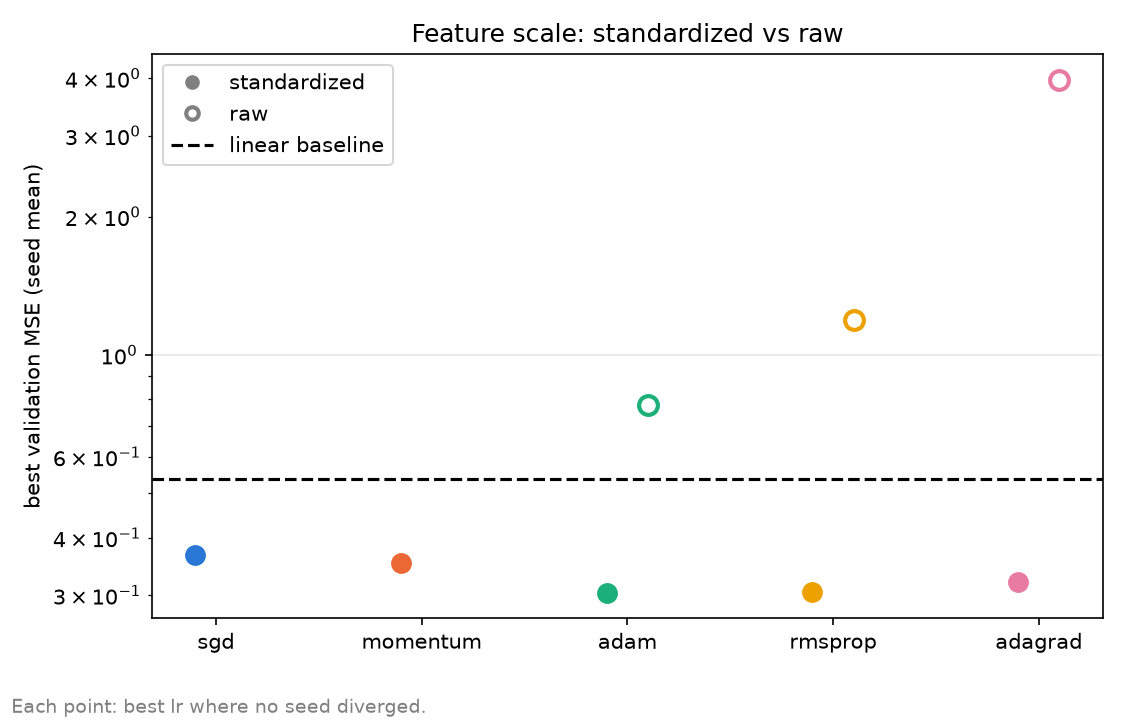
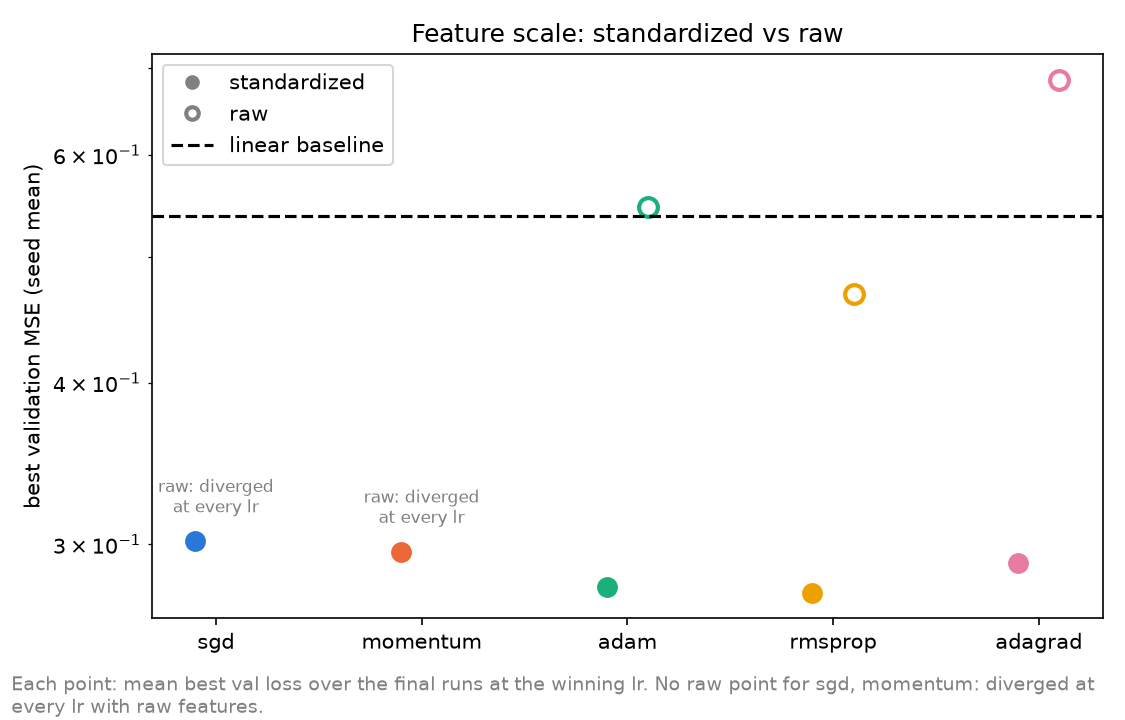
fixed results.py; explicitly explain the 'pilot phase' in README.md; graph redrawn

diff --git a/README.md b/README.md
@@ -17,15 +17,25 @@ Optional checks: `pytest` runs the gradient, optimizer, metric and PyTorch-parit
 
 Run everything from the repo root, in this order. `lr_sweep.py` and `analyze.py` are configured by the constants at the top of each file.
 
-### 1. Learning-rate sweep
+Every training run uses the same network and batch size (48); the phases differ only in optimizers, learning rates, seeds and epochs:
 
-In `lr_sweep.py` set `PHASE = "sweep"`, `FINAL_LRS = None`, all five optimizers in `OPTIMIZER_NAMES`, then run it once with `STANDARDIZED = True` and once with `False`:
+| Phase | `lr_sweep.py` settings | Runs | Output |
+|---|---|---|---|
+| 0. Pilot | `PHASE = "pilot"`, SGD and AdaGrad, all 9 lrs, `SEEDS = [0]`, `N_EPOCHS = 200`, standardized | 18 | `logs/pilot_std/` |
+| 1. Sweep | `PHASE = "sweep"`, all five optimizers, all 9 lrs, `SEEDS = [0, 1, 2, 3, 4]`, `N_EPOCHS = 260`, `FINAL_LRS = None`; once standardized, once raw | 225 + 225 | `logs/sweep_std/`, `logs/sweep_raw/` |
+| 3. Final | `PHASE = "final"`, each optimizer at its winning lr only, `SEEDS = [5, 6, 7, 8, 9]`, `N_EPOCHS = 260`; once standardized, once raw | 25 + 15 | `logs/final_std/`, `logs/final_raw/` |
+
+### 0. Pilot: choose the epoch budget
+
+Run `python lr_sweep.py` with the pilot settings above, then `python analyze.py` with `MODE = "pilot"` and `STANDARDIZED = True`. For each optimizer's best lr it finds the epoch where the val loss first gets within 1% of its lowest, and prints the budget as twice the slowest of those. Our pilot: SGD stops improving at epoch 130 and AdaGrad at 98, so the budget is 2 × 130 = **260 epochs**, used by the sweep and the final runs.
+
+### 1. Learning-rate sweep
 
 ```bash
 python lr_sweep.py
 ```
 
-Each optimizer is trained at every learning rate in `LRS` (1e-4 … 1.0) for every seed in `SEEDS`. Large learning rates are expected to diverge; those runs are recorded, not errors. It prints mean ± std val MSE per optimizer and lr, how many seeds diverged or never beat a constant prediction, and marks the best lr. Results go to `logs/sweep_std/` or `logs/sweep_raw/`:
+Each optimizer is trained at every learning rate in `LRS` (1e-4 … 1.0) for every seed in `SEEDS`. Large learning rates are expected to diverge; those runs are recorded, not errors. It prints mean ± std val MSE per optimizer and lr, how many seeds diverged or never beat a constant prediction, and marks the best lr. Run it with `STANDARDIZED = True` and again with `False`. Each run folder holds:
 
 | File | Contents |
 |---|---|
@@ -37,19 +47,23 @@ Each optimizer is trained at every learning rate in `LRS` (1e-4 … 1.0) for eve
 
 With raw features SGD and Momentum diverge at every lr, so they have no best lr there.
 
-### 2. Working learning-rate range
+### 2. Winners and working learning-rate range
 
-In `analyze.py` set `MODE = "sweep"` and `STANDARDIZED = True`, then:
-
-```bash
-python analyze.py
-```
-
-Writes `logs/sweep_std/winners.csv`: each optimizer's best lr, the epoch where it stops improving, and its working range (lrs whose mean val loss is within 10% of the best) as `working_ratio` = largest / smallest working lr.
+Run `python analyze.py` with `MODE = "sweep"`, once with `STANDARDIZED = True` and once with `False`. It writes `winners.csv` into `logs/sweep_std/` and `logs/sweep_raw/`: each optimizer's best lr, the epoch where it stops improving, and its working range (lrs whose mean val loss is within 10% of the best) as `working_ratio` = largest / smallest working lr.
 
 ### 3. Final runs
 
-In `lr_sweep.py` set `PHASE = "final"` and `FINAL_LRS` to each optimizer's winning lr, then run it with `STANDARDIZED = True` and again with `False` (only the optimizers that have a raw winner). Each optimizer is trained at that one lr with fresh seeds (`SEEDS = [5, 6, 7, 8, 9]`) for `N_EPOCHS`. Results go to `logs/final_std/` and `logs/final_raw/`, in the same format as step 1.
+Set `FINAL_LRS` to the `lr` column of the matching `winners.csv` and run `python lr_sweep.py` with the final settings above, once per feature scale. Fresh seeds (5–9) keep the final numbers independent of the seeds used to pick the lr. The learning rates we used:
+
+| Optimizer | standardized (`logs/final_std/`) | raw (`logs/final_raw/`) |
+|---|---|---|
+| SGD | 0.01 | none: diverged at every lr |
+| Momentum | 0.001 | none: diverged at every lr |
+| Adam | 0.003 | 0.01 |
+| RMSProp | 0.003 | 0.003 |
+| AdaGrad | 0.3 | 0.03 |
+
+Each run takes a few seconds (about 4 s for SGD and 8 s for Adam at 260 epochs), so a full final phase takes a few minutes.
 
 ### 4. Metrics
 
@@ -94,7 +108,8 @@ Where each figure's data comes from:
 | Path | What it is | Made by |
 |---|---|---|
 | `data/cal_housing_py3.pkz` | the raw California housing dataset (20,640 houses, 8 features, target = median house value in $100k), cached by sklearn | first call to `data.prepare_data` |
-| `logs/sweep_std/`, `logs/sweep_raw/` | learning-rate sweep logs (files listed in step 1); `sweep_std/` also holds `winners.csv` | `lr_sweep.py` with `PHASE = "sweep"`, `analyze.py` |
+| `logs/pilot_std/` | pilot runs used to pick the 260-epoch budget | `lr_sweep.py` with `PHASE = "pilot"` |
+| `logs/sweep_std/`, `logs/sweep_raw/` | learning-rate sweep logs (files listed in step 1), each with its `winners.csv` | `lr_sweep.py` with `PHASE = "sweep"`, `analyze.py` |
 | `logs/final_std/`, `logs/final_raw/` | final runs at each optimizer's winning lr | `lr_sweep.py` with `PHASE = "final"` |
 | `results.csv` | the four metrics, one row per optimizer | `results.py` |
 | `figures/` | the three PNGs | `plots.py` |
